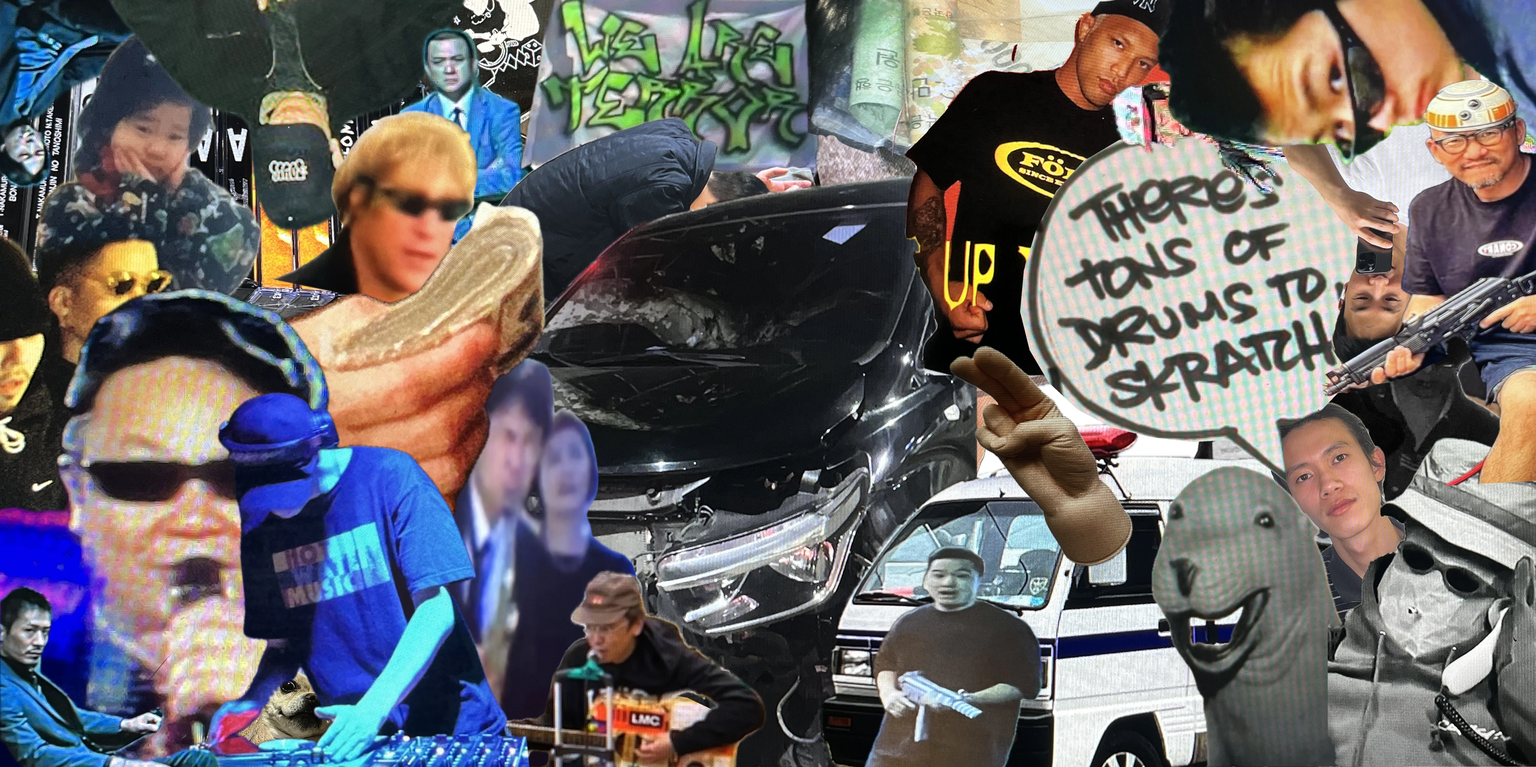
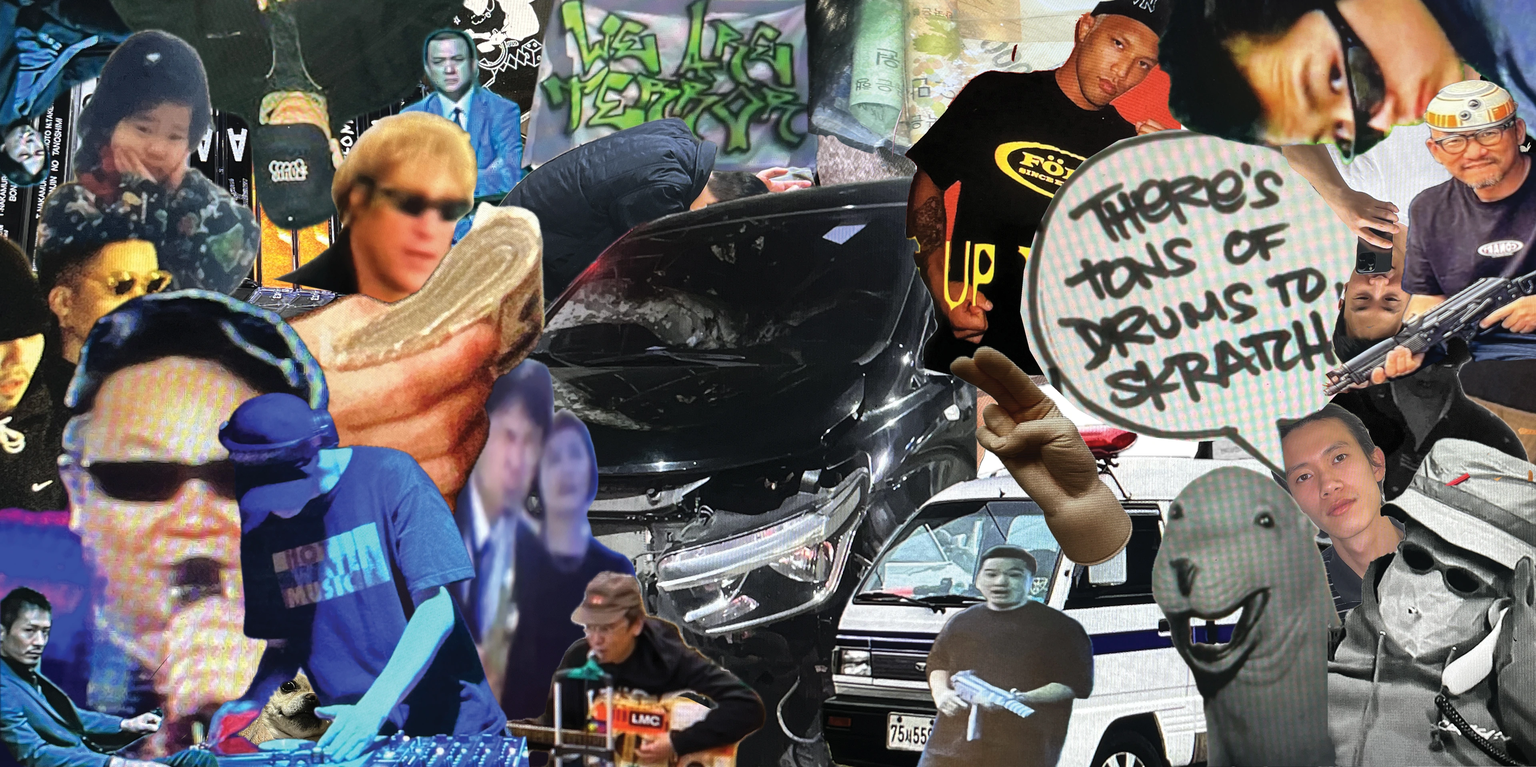
Match supplied transmission sample and updated background

diff --git a/transmission/index.html b/transmission/index.html
@@ -46,12 +46,11 @@
       position: fixed;
       inset: 0;
       z-index: -1;
-      background: #222 url("transmission/background.webp?v=20260910a") center / cover no-repeat;
+      background: #222 url("transmission/background.webp?v=20260910-sample") center / cover no-repeat;
     }
 
     .transmission-console {
-      --player-height: 72px;
-      --status-height: 23px;
+      --status-height: clamp(23px, 1.35vw, 51.84px);
       display: flex;
       flex-direction: column;
       align-items: stretch;
@@ -59,14 +58,16 @@
       box-sizing: border-box;
       gap: 3px;
       background: #fff;
-      padding: var(--panel-padding);
     }
 
     .transmission-stage {
-      --player-height: 72px;
-      --figure-gap: 14px;
-      --panel-padding: 24px;
+      --player-height: clamp(72px, 4.25vw, 163.2px);
+      --figure-gap: clamp(14px, .8vw, 30.72px);
+      --panel-padding: clamp(24px, 1.4vw, 53.76px);
       width: calc(var(--player-height) * 13 / 3 + 2 * var(--panel-padding));
+      box-sizing: border-box;
+      padding: var(--panel-padding);
+      background: #fff;
       display: flex;
       flex-direction: column;
       align-items: center;
@@ -99,7 +100,7 @@
       background: #000;
       color: #fff;
       font-family: Arial, Helvetica, sans-serif;
-      font-size: 8.5px;
+      font-size: clamp(8.5px, .5vw, 19.2px);
       font-weight: 400;
       line-height: 1;
       letter-spacing: .09em;
